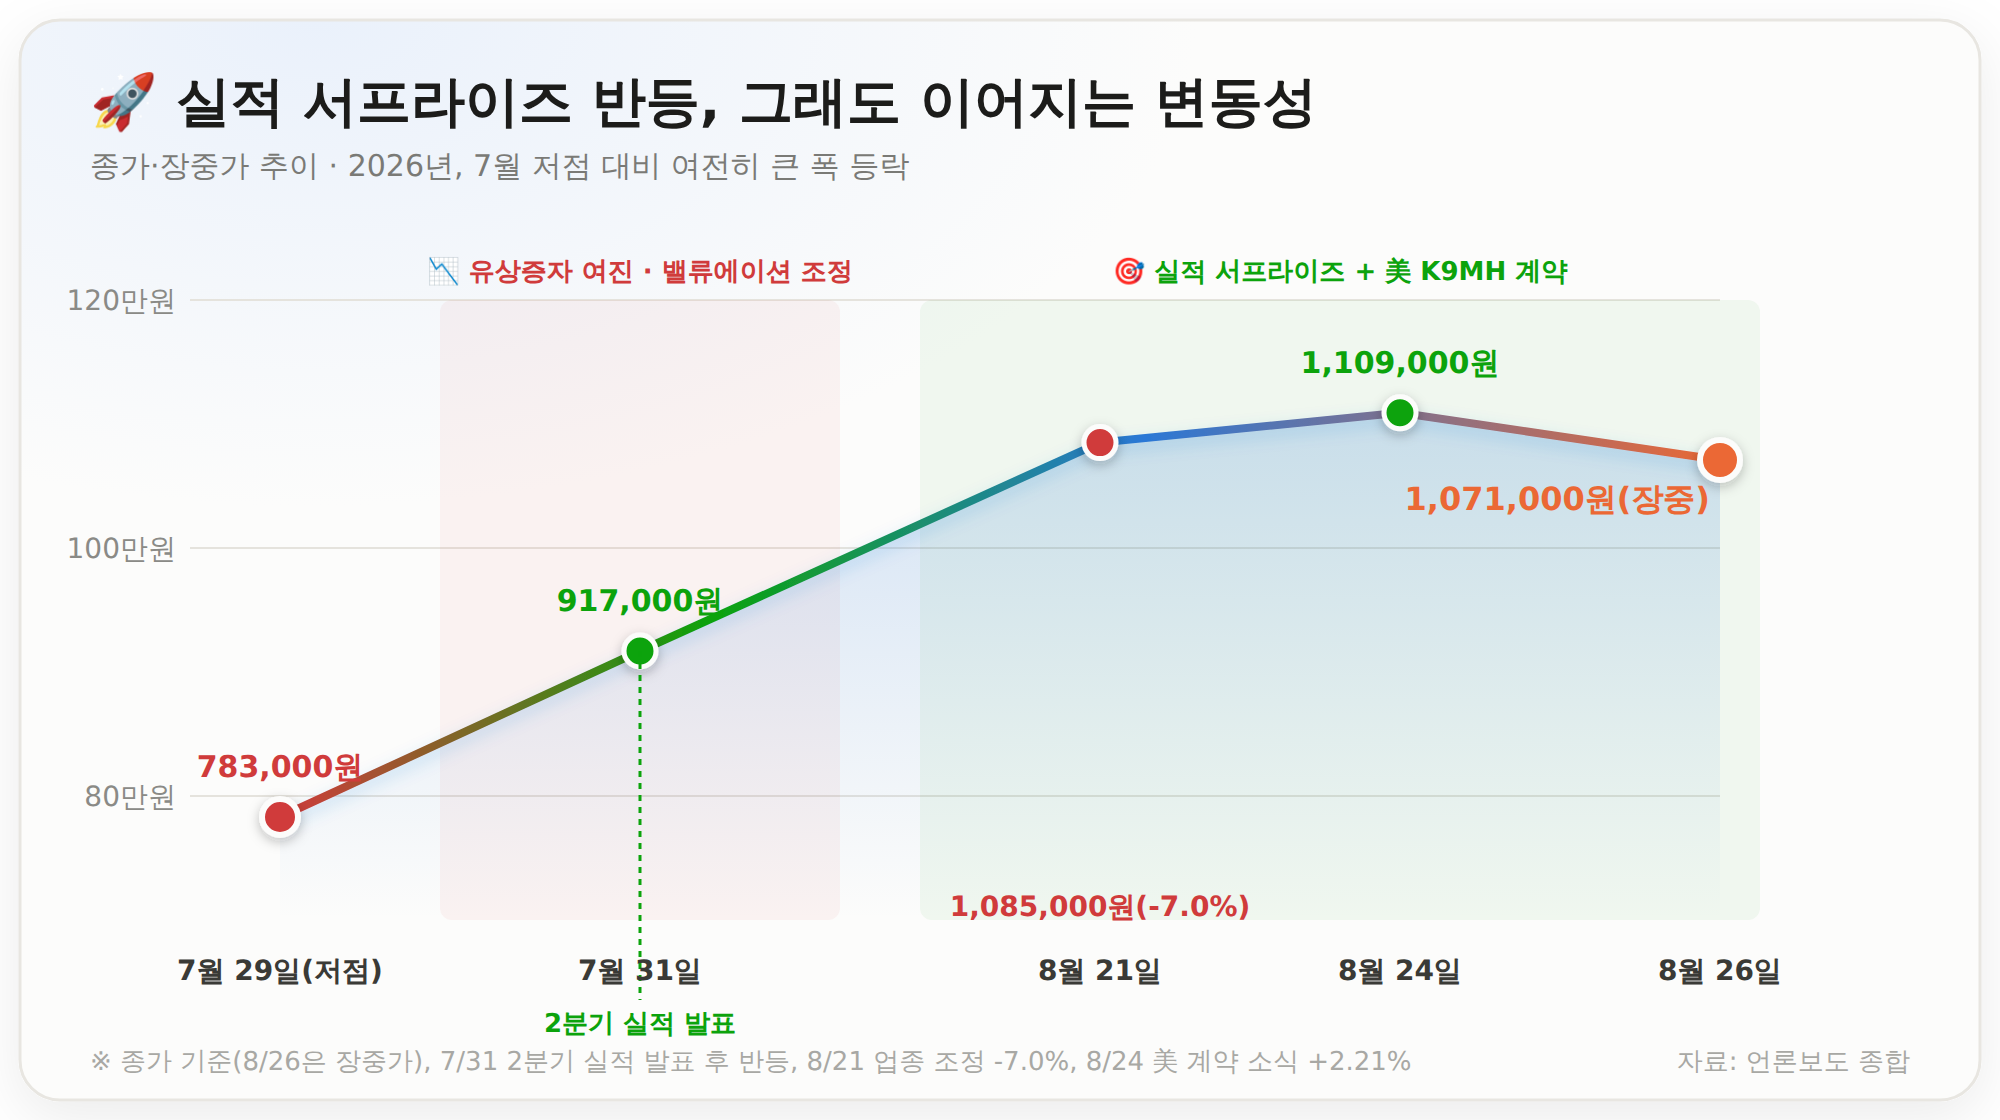
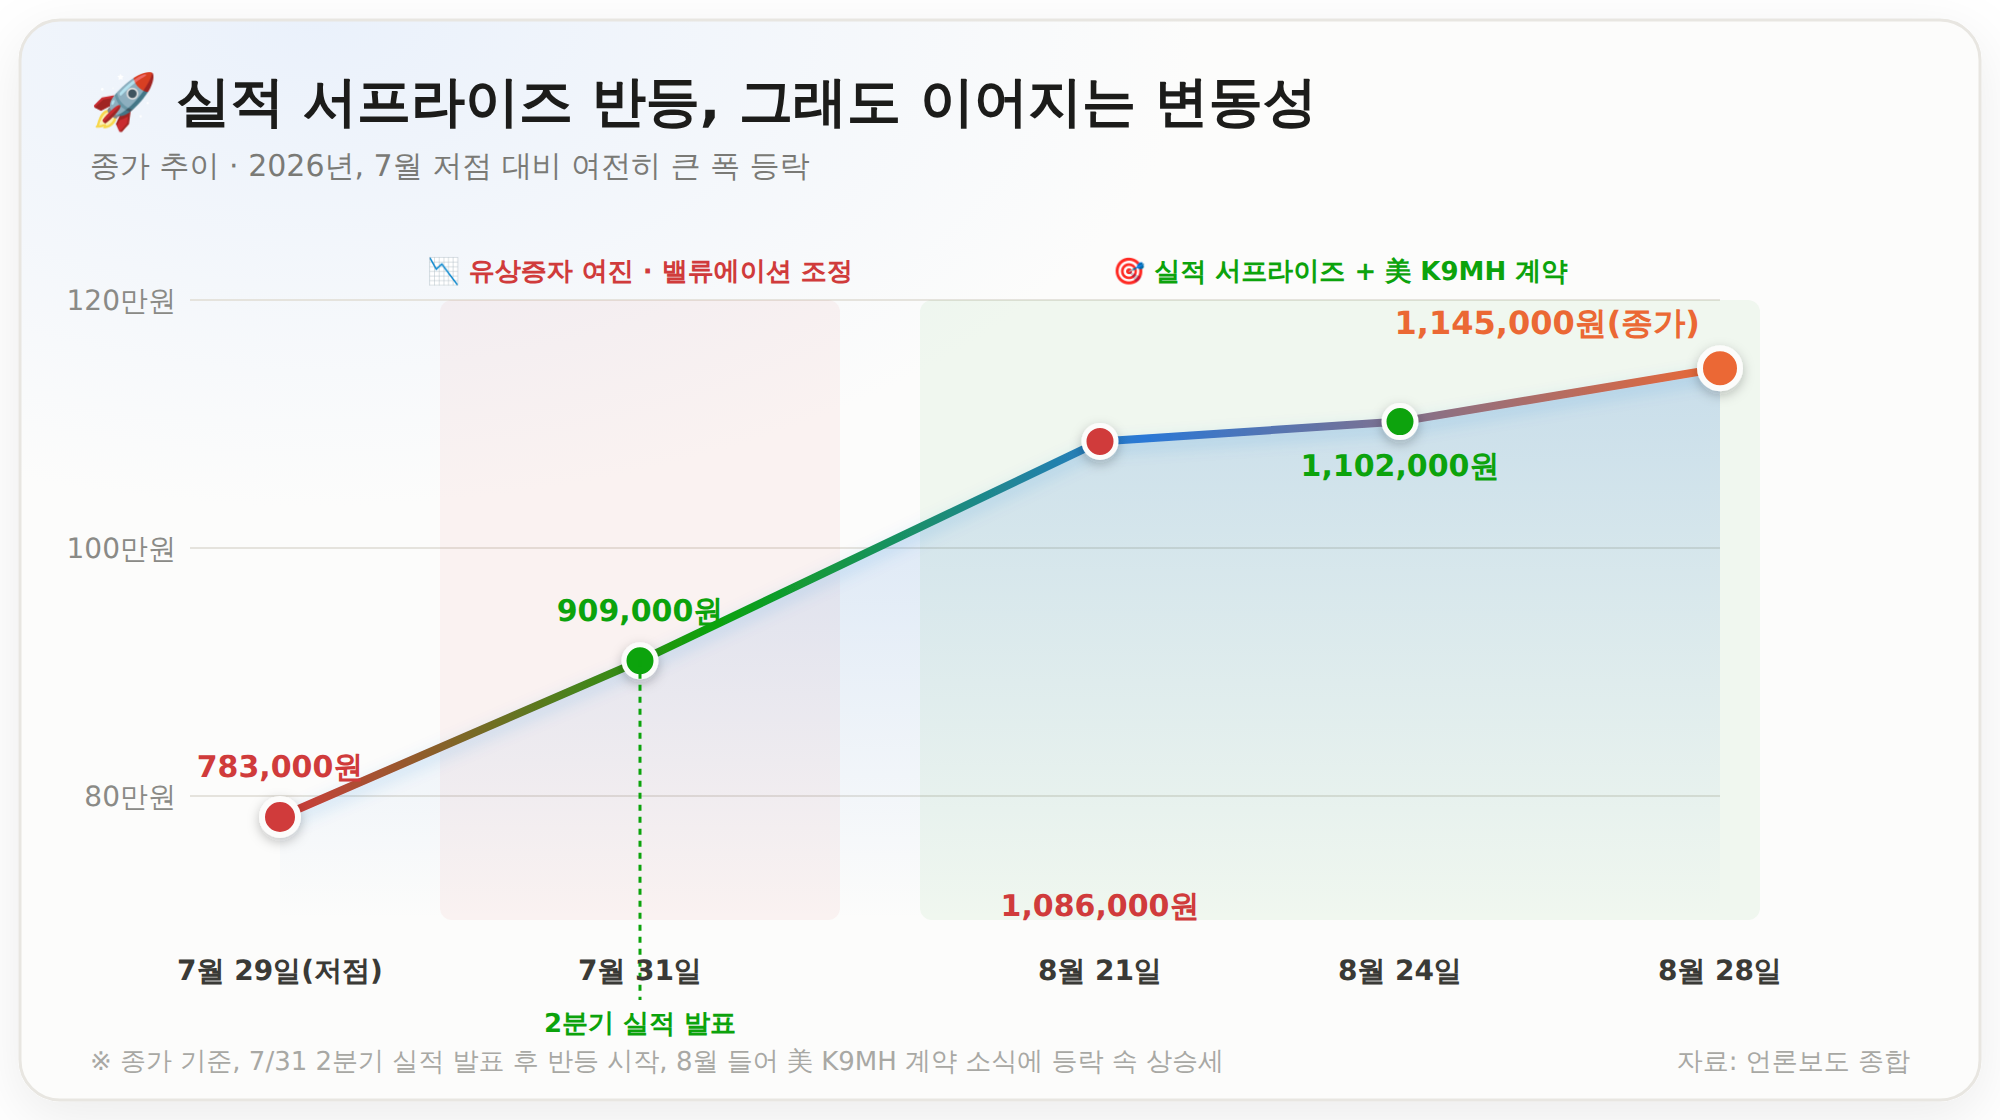
fix: 한화에어로스페이스 글 일별 종가 정정 - 사용자 제보 실측치 반영 (#102)
- 7/31 종가 917,000원→909,000원
- 8/21 종가 1,085,000원→1,086,000원
- 8/24 종가 1,109,000원→1,102,000원
- 8/26 장중가 데이터포인트 삭제, 8/28 종가 1,145,000원으로 교체
- 목표주가 평균(192.2만원) 대비 괴리 79%→68%로 재계산
- 가격추이·목표주가·커버 이미지 3종 재생성

diff --git a/src/App.tsx b/src/App.tsx
@@ -19,7 +19,7 @@ const samplePosts: Post[] = [
 
 안녕하세요 대왕토끼입니다~ 🐰
 
-![한화에어로스페이스 주식분석 커버 이미지 - 분기 영업이익 첫 1조 클럽, 2026년 2분기 영업이익 1조3655억원 전년比 +58.5%, 지상방산 수주잔고 39.7조원 역대 최대, 8월26일 장중가 107.1만원 목표주가 평균 192.2만원](/images/hanwhaaerospace-stock/hanwhaaerospace-cover.png)
+![한화에어로스페이스 주식분석 커버 이미지 - 분기 영업이익 첫 1조 클럽, 2026년 2분기 영업이익 1조3655억원 전년比 +58.5%, 지상방산 수주잔고 39.7조원 역대 최대, 8월28일 종가 114.5만원 목표주가 평균 192.2만원](/images/hanwhaaerospace-stock/hanwhaaerospace-cover.png)
 
 이번 글에서는 K-방산을 대표하는 **한화에어로스페이스**를 분석해보려고 합니다. 폴란드·루마니아 등 유럽 수출에 미국 시장 진입까지 겹치며 실적은 분기 사상 최대치를 연달아 갈아치우고 있는데, 정작 주가는 지난해 유상증자 논란 이후 큰 폭의 변동성을 보이고 있어요. 왜 이런 괴리가 생기는지 업황과 함께 짚어봤습니다.
 
@@ -76,7 +76,7 @@ const samplePosts: Post[] = [
 
 작년 3월 한화에어로스페이스 이사회는 3조6,000억원 규모(한국 증시 역사상 최대) 유상증자를 결의했어요. 발표 다음 날 주가가 13% 넘게 급락했고, 소액주주를 중심으로 "경영권 승계를 위한 밑작업 아니냐"는 비판이 제기됐어요. 결국 4월 8일 이사회는 유상증자 규모를 2조3,000억원으로 줄이고, 축소된 1조3,000억원은 한화에너지 등 그룹 계열사 대상 제3자 배정으로 조달하는 것으로 방향을 틀었어요.
 
-![한화에어로스페이스 종가 추이 차트 - 7월29일 장중 저점 783,000원까지 조정, 7월31일 2분기 실적 서프라이즈 발표 후 917,000원으로 반등 시작, 8월21일 업종 전반 조정 속 -7.0% 급락 1,085,000원, 8월24일 미 육군 계약 소식에 +2.21% 반등 1,109,000원, 8월26일 장중 -2.81% 1,071,000원](/images/hanwhaaerospace-stock/hanwhaaerospace-price-trend.png)
+![한화에어로스페이스 종가 추이 차트 - 7월29일 장중 저점 783,000원까지 조정, 7월31일 2분기 실적 서프라이즈 발표 후 909,000원으로 반등 시작, 8월21일 업종 전반 조정 속 1,086,000원, 8월24일 미 육군 계약 소식에 반등한 1,102,000원, 8월28일 종가 1,145,000원까지 상승세 지속](/images/hanwhaaerospace-stock/hanwhaaerospace-price-trend.png)
 
 ### ② 7월, 다시 조정 국면 - 장중 78만원대까지 밀림
 
@@ -84,11 +84,11 @@ const samplePosts: Post[] = [
 
 ### ③ 7월 31일, 2분기 실적 서프라이즈로 반등 시작
 
-그런데 7월 31일 발표된 2분기 실적이 시장 예상을 크게 웃돌면서(분기 영업이익 첫 1조 클럽) 주가가 반등하기 시작했어요. 이날 종가는 917,000원을 기록했습니다.
+그런데 7월 31일 발표된 2분기 실적이 시장 예상을 크게 웃돌면서(분기 영업이익 첫 1조 클럽) 주가가 반등하기 시작했어요. 이날 종가는 909,000원을 기록했습니다.
 
 ### ④ 8월, 미국 진출 소식에 재상승 - 그리고 다시 찾아온 변동성
 
-8월 들어서는 한화디펜스USA의 미 육군 K9MH 계약 소식에 힘입어 주가가 재차 오르며 100만원대(황제주 지위)를 회복했어요. 하지만 8월 21일에는 방산 업종 전반의 조정 속에 -7.0% 급락하며 1,085,000원을 기록했고, 8월 24일에는 +2.21% 반등한 1,109,000원, 8월 26일에는 장중 -2.81% 하락한 1,071,000원을 나타내는 등 최근까지도 큰 폭의 등락이 이어지고 있어요.
+8월 들어서는 한화디펜스USA의 미 육군 K9MH 계약 소식에 힘입어 주가가 재차 오르며 100만원대(황제주 지위)를 회복했어요. 하지만 8월 21일에는 방산 업종 전반의 조정 속에 하락하며 1,086,000원을 기록했고, 8월 24일에는 소폭 반등한 1,102,000원, 8월 28일에는 1,145,000원으로 마감하며 상승세를 이어가는 등 최근까지도 큰 폭의 등락이 반복되고 있어요.
 
 즉 "실적이 나빠서"가 아니라, ①유상증자를 둘러싼 신뢰 이슈, ②그동안 오른 주가에 대한 밸류에이션 부담, ③방산 업종 전반의 변동성이 겹치며 사상 최대 실적에도 주가가 출렁이는 흐름이라고 보는 게 정확해요.
 
@@ -96,7 +96,7 @@ const samplePosts: Post[] = [
 
 ## 5. 밸류에이션 - 목표주가와 현재가, 여전히 큰 간격
 
-8월 26일 장중가(1,071,000원) 기준으로 보면, 증권사 목표주가와 상당한 괴리가 있어요.
+8월 28일 종가(1,145,000원) 기준으로 보면, 증권사 목표주가와 상당한 괴리가 있어요.
 
 | 증권사 | 목표주가 | 비고 |
 | --- | --- | --- |
@@ -106,9 +106,9 @@ const samplePosts: Post[] = [
 | DS투자증권 | 183만원 | 167만원에서 상향 |
 | 현대차증권 | 178만원 | 방산 업종 내 최선호주로 제시 |
 
-![한화에어로스페이스 목표주가와 현재가 비교 차트 - 8월26일 장중가 1,071,000원 대비 현대차증권 178만원, DS투자증권 183만원, 하나증권 186만원, 한국투자증권 200만원, 다올투자증권 214만원으로 목표주가가 모두 현재가를 크게 상회](/images/hanwhaaerospace-stock/hanwhaaerospace-target-price.png)
+![한화에어로스페이스 목표주가와 현재가 비교 차트 - 8월28일 종가 1,145,000원 대비 현대차증권 178만원, DS투자증권 183만원, 하나증권 186만원, 한국투자증권 200만원, 다올투자증권 214만원으로 목표주가가 모두 현재가를 크게 상회](/images/hanwhaaerospace-stock/hanwhaaerospace-target-price.png)
 
-목표주가 평균은 약 192만2,000원으로, 8월 26일 장중가 대비 79% 이상 높은 수준이에요. 실적이 분기 사상 최대치를 계속 갈아치우는데도 이 정도 괴리가 남아있다는 건, 그만큼 유상증자 논란과 업종 변동성이 주가에 발목을 잡고 있다는 뜻으로도 읽을 수 있어요.
+목표주가 평균은 약 192만2,000원으로, 8월 28일 종가 대비 68% 정도 높은 수준이에요. 실적이 분기 사상 최대치를 계속 갈아치우는데도 이 정도 괴리가 남아있다는 건, 그만큼 유상증자 논란과 업종 변동성이 주가에 발목을 잡고 있다는 뜻으로도 읽을 수 있어요.
 
 ---
 
@@ -130,7 +130,7 @@ const samplePosts: Post[] = [
 
 **리스크**
 - 지난해 유상증자를 둘러싼 신뢰 이슈가 완전히 해소되지 않았고, 향후 추가 자금조달 이슈가 재부각될 가능성이 있어요.
-- 최근 한 달 사이(+2.21% ↔ -7.0% ↔ -2.81%)에서 보듯 변동성이 매우 커서, 단기 매매에는 리스크가 큰 종목이에요.
+- 최근 한 달 사이 하락과 반등을 반복하는 데서 보듯 변동성이 매우 커서, 단기 매매에는 리스크가 큰 종목이에요.
 - 항공우주 부문은 매출 대비 영업이익(370억원)이 아직 낮아, 수익성 개선이 진행형이에요.
 - 방산 업종 전반의 밸류에이션 조정이나 환율·원자재 가격 변수에 개별 종목의 노력과 무관하게 영향받을 수 있어요.
 

diff --git a/posts/stock/hanwhaaerospace-analysis.md b/posts/stock/hanwhaaerospace-analysis.md
@@ -10,7 +10,7 @@ naverCategory: "국내주식"
 
 안녕하세요 대왕토끼입니다~ 🐰
 
-![한화에어로스페이스 주식분석 커버 이미지 - 분기 영업이익 첫 1조 클럽, 2026년 2분기 영업이익 1조3655억원 전년比 +58.5%, 지상방산 수주잔고 39.7조원 역대 최대, 8월26일 장중가 107.1만원 목표주가 평균 192.2만원](/images/hanwhaaerospace-stock/hanwhaaerospace-cover.png)
+![한화에어로스페이스 주식분석 커버 이미지 - 분기 영업이익 첫 1조 클럽, 2026년 2분기 영업이익 1조3655억원 전년比 +58.5%, 지상방산 수주잔고 39.7조원 역대 최대, 8월28일 종가 114.5만원 목표주가 평균 192.2만원](/images/hanwhaaerospace-stock/hanwhaaerospace-cover.png)
 
 이번 글에서는 K-방산을 대표하는 **한화에어로스페이스**를 분석해보려고 합니다. 폴란드·루마니아 등 유럽 수출에 미국 시장 진입까지 겹치며 실적은 분기 사상 최대치를 연달아 갈아치우고 있는데, 정작 주가는 지난해 유상증자 논란 이후 큰 폭의 변동성을 보이고 있어요. 왜 이런 괴리가 생기는지 업황과 함께 짚어봤습니다.
 
@@ -67,7 +67,7 @@ naverCategory: "국내주식"
 
 작년 3월 한화에어로스페이스 이사회는 3조6,000억원 규모(한국 증시 역사상 최대) 유상증자를 결의했어요. 발표 다음 날 주가가 13% 넘게 급락했고, 소액주주를 중심으로 "경영권 승계를 위한 밑작업 아니냐"는 비판이 제기됐어요. 결국 4월 8일 이사회는 유상증자 규모를 2조3,000억원으로 줄이고, 축소된 1조3,000억원은 한화에너지 등 그룹 계열사 대상 제3자 배정으로 조달하는 것으로 방향을 틀었어요.
 
-![한화에어로스페이스 종가 추이 차트 - 7월29일 장중 저점 783,000원까지 조정, 7월31일 2분기 실적 서프라이즈 발표 후 917,000원으로 반등 시작, 8월21일 업종 전반 조정 속 -7.0% 급락 1,085,000원, 8월24일 미 육군 계약 소식에 +2.21% 반등 1,109,000원, 8월26일 장중 -2.81% 1,071,000원](/images/hanwhaaerospace-stock/hanwhaaerospace-price-trend.png)
+![한화에어로스페이스 종가 추이 차트 - 7월29일 장중 저점 783,000원까지 조정, 7월31일 2분기 실적 서프라이즈 발표 후 909,000원으로 반등 시작, 8월21일 업종 전반 조정 속 1,086,000원, 8월24일 미 육군 계약 소식에 반등한 1,102,000원, 8월28일 종가 1,145,000원까지 상승세 지속](/images/hanwhaaerospace-stock/hanwhaaerospace-price-trend.png)
 
 ### ② 7월, 다시 조정 국면 - 장중 78만원대까지 밀림
 
@@ -75,11 +75,11 @@ naverCategory: "국내주식"
 
 ### ③ 7월 31일, 2분기 실적 서프라이즈로 반등 시작
 
-그런데 7월 31일 발표된 2분기 실적이 시장 예상을 크게 웃돌면서(분기 영업이익 첫 1조 클럽) 주가가 반등하기 시작했어요. 이날 종가는 917,000원을 기록했습니다.
+그런데 7월 31일 발표된 2분기 실적이 시장 예상을 크게 웃돌면서(분기 영업이익 첫 1조 클럽) 주가가 반등하기 시작했어요. 이날 종가는 909,000원을 기록했습니다.
 
 ### ④ 8월, 미국 진출 소식에 재상승 - 그리고 다시 찾아온 변동성
 
-8월 들어서는 한화디펜스USA의 미 육군 K9MH 계약 소식에 힘입어 주가가 재차 오르며 100만원대(황제주 지위)를 회복했어요. 하지만 8월 21일에는 방산 업종 전반의 조정 속에 -7.0% 급락하며 1,085,000원을 기록했고, 8월 24일에는 +2.21% 반등한 1,109,000원, 8월 26일에는 장중 -2.81% 하락한 1,071,000원을 나타내는 등 최근까지도 큰 폭의 등락이 이어지고 있어요.
+8월 들어서는 한화디펜스USA의 미 육군 K9MH 계약 소식에 힘입어 주가가 재차 오르며 100만원대(황제주 지위)를 회복했어요. 하지만 8월 21일에는 방산 업종 전반의 조정 속에 하락하며 1,086,000원을 기록했고, 8월 24일에는 소폭 반등한 1,102,000원, 8월 28일에는 1,145,000원으로 마감하며 상승세를 이어가는 등 최근까지도 큰 폭의 등락이 반복되고 있어요.
 
 즉 "실적이 나빠서"가 아니라, ①유상증자를 둘러싼 신뢰 이슈, ②그동안 오른 주가에 대한 밸류에이션 부담, ③방산 업종 전반의 변동성이 겹치며 사상 최대 실적에도 주가가 출렁이는 흐름이라고 보는 게 정확해요.
 
@@ -87,7 +87,7 @@ naverCategory: "국내주식"
 
 ## 5. 밸류에이션 - 목표주가와 현재가, 여전히 큰 간격
 
-8월 26일 장중가(1,071,000원) 기준으로 보면, 증권사 목표주가와 상당한 괴리가 있어요.
+8월 28일 종가(1,145,000원) 기준으로 보면, 증권사 목표주가와 상당한 괴리가 있어요.
 
 | 증권사 | 목표주가 | 비고 |
 | --- | --- | --- |
@@ -97,9 +97,9 @@ naverCategory: "국내주식"
 | DS투자증권 | 183만원 | 167만원에서 상향 |
 | 현대차증권 | 178만원 | 방산 업종 내 최선호주로 제시 |
 
-![한화에어로스페이스 목표주가와 현재가 비교 차트 - 8월26일 장중가 1,071,000원 대비 현대차증권 178만원, DS투자증권 183만원, 하나증권 186만원, 한국투자증권 200만원, 다올투자증권 214만원으로 목표주가가 모두 현재가를 크게 상회](/images/hanwhaaerospace-stock/hanwhaaerospace-target-price.png)
+![한화에어로스페이스 목표주가와 현재가 비교 차트 - 8월28일 종가 1,145,000원 대비 현대차증권 178만원, DS투자증권 183만원, 하나증권 186만원, 한국투자증권 200만원, 다올투자증권 214만원으로 목표주가가 모두 현재가를 크게 상회](/images/hanwhaaerospace-stock/hanwhaaerospace-target-price.png)
 
-목표주가 평균은 약 192만2,000원으로, 8월 26일 장중가 대비 79% 이상 높은 수준이에요. 실적이 분기 사상 최대치를 계속 갈아치우는데도 이 정도 괴리가 남아있다는 건, 그만큼 유상증자 논란과 업종 변동성이 주가에 발목을 잡고 있다는 뜻으로도 읽을 수 있어요.
+목표주가 평균은 약 192만2,000원으로, 8월 28일 종가 대비 68% 정도 높은 수준이에요. 실적이 분기 사상 최대치를 계속 갈아치우는데도 이 정도 괴리가 남아있다는 건, 그만큼 유상증자 논란과 업종 변동성이 주가에 발목을 잡고 있다는 뜻으로도 읽을 수 있어요.
 
 ---
 
@@ -121,7 +121,7 @@ naverCategory: "국내주식"
 
 **리스크**
 - 지난해 유상증자를 둘러싼 신뢰 이슈가 완전히 해소되지 않았고, 향후 추가 자금조달 이슈가 재부각될 가능성이 있어요.
-- 최근 한 달 사이(+2.21% ↔ -7.0% ↔ -2.81%)에서 보듯 변동성이 매우 커서, 단기 매매에는 리스크가 큰 종목이에요.
+- 최근 한 달 사이 하락과 반등을 반복하는 데서 보듯 변동성이 매우 커서, 단기 매매에는 리스크가 큰 종목이에요.
 - 항공우주 부문은 매출 대비 영업이익(370억원)이 아직 낮아, 수익성 개선이 진행형이에요.
 - 방산 업종 전반의 밸류에이션 조정이나 환율·원자재 가격 변수에 개별 종목의 노력과 무관하게 영향받을 수 있어요.
 
